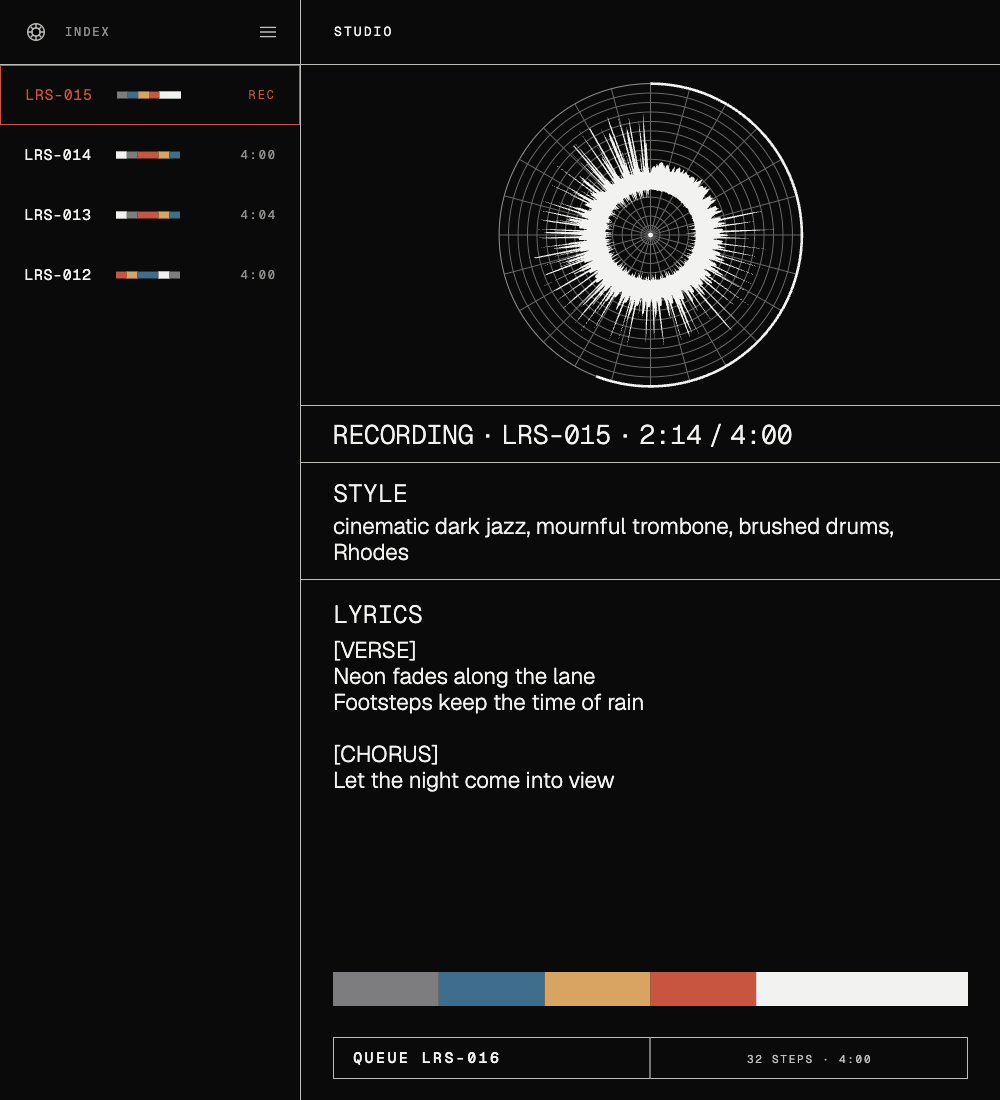
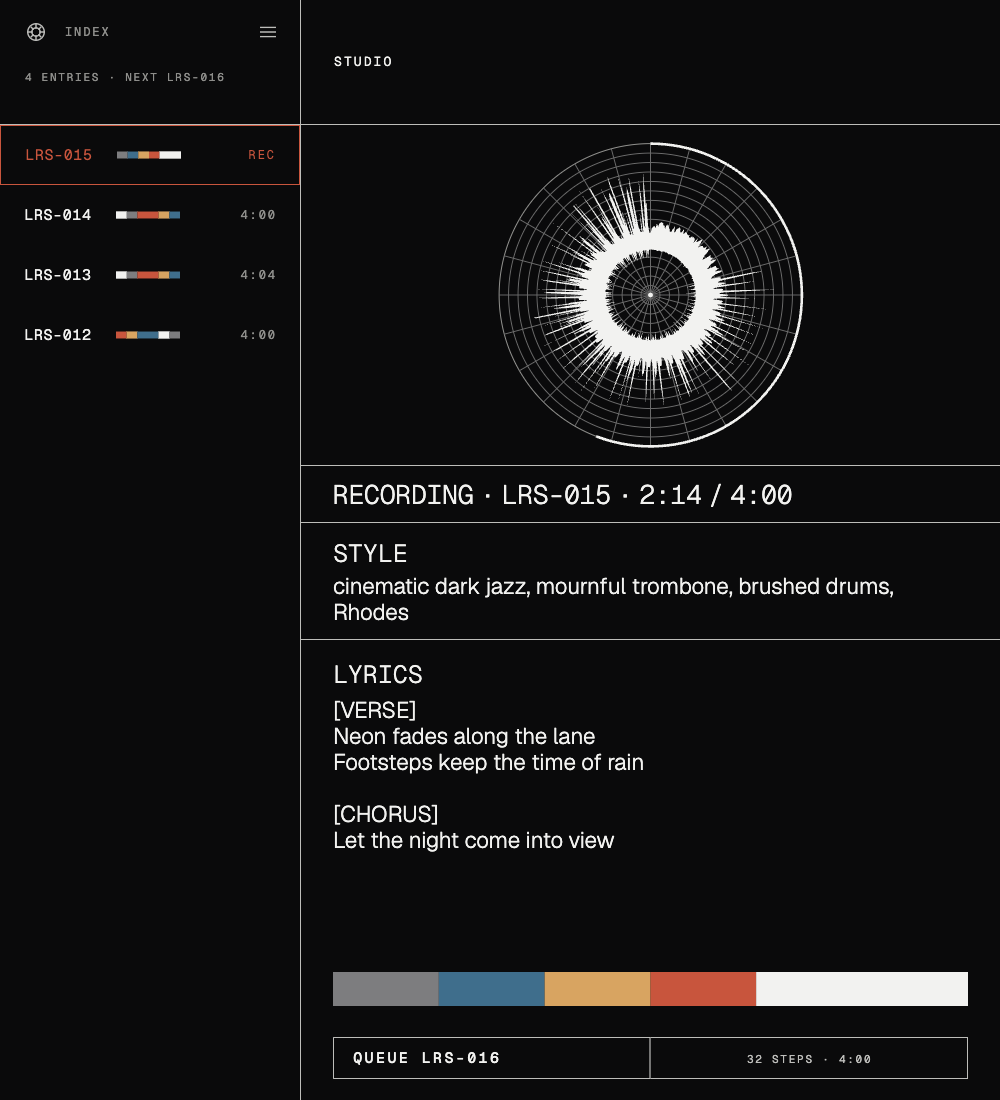
0.4.3+7: same index header on every wide layout; wide idle captures

diff --git a/lib/ui/screens/studio_screen.dart b/lib/ui/screens/studio_screen.dart
@@ -281,12 +281,12 @@ class _WideStudio extends StatelessWidget {
       );
     } else {
       // One column, same reading order as desktop: plot, status, then the writing together.
-      // The top band matches the index column's page header so the first rules line up.
-      body = Column(
+            body = Column(
         crossAxisAlignment: CrossAxisAlignment.stretch,
         children: [
+          // Same band height as the index header on every wide layout, so the first rules align.
           SizedBox(
-            height: pageHeaderHeight,
+            height: wideTopBand,
             child: Padding(
               padding: EdgeInsets.symmetric(horizontal: side),
               child: const Align(alignment: Alignment.centerLeft, child: Etched('Studio', size: 13, color: Sleeve.ink)),

diff --git a/lib/ui/frame.dart b/lib/ui/frame.dart
@@ -37,7 +37,7 @@ class AdaptiveFrame extends StatelessWidget {
       children: [
         SizedBox(
           width: indexColumnWidth(w),
-          child: IndexColumn(studio: studio, header: studio && w - indexColumnWidth(w) - 1 >= 760 ? wideTopBand : pageHeaderHeight),
+          child: IndexColumn(studio: studio, header: studio ? wideTopBand : pageHeaderHeight),
         ),
         const Rule(vertical: true),
         Expanded(child: child),

diff --git a/lib/core/app_info.dart b/lib/core/app_info.dart
@@ -1,7 +1,7 @@
 /// App identity. The version matches pubspec.yaml (one version for every platform).
 const String appName = 'Localhost Recording Studio';
-const String appVersion = '0.4.2';
-const int appBuild = 6;
+const String appVersion = '0.4.3';
+const int appBuild = 7;
 const String appLicence = 'MIT';
 const String appSourceUrl = 'https://github.com/jooray/studio-localhost';
 
